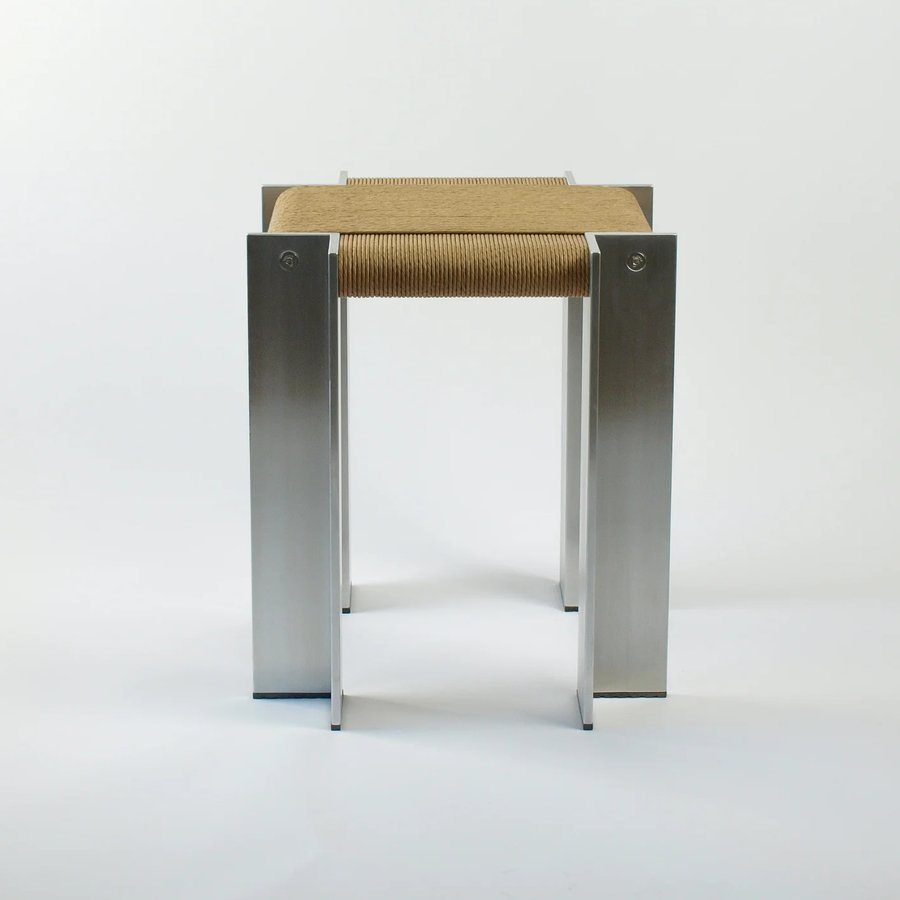
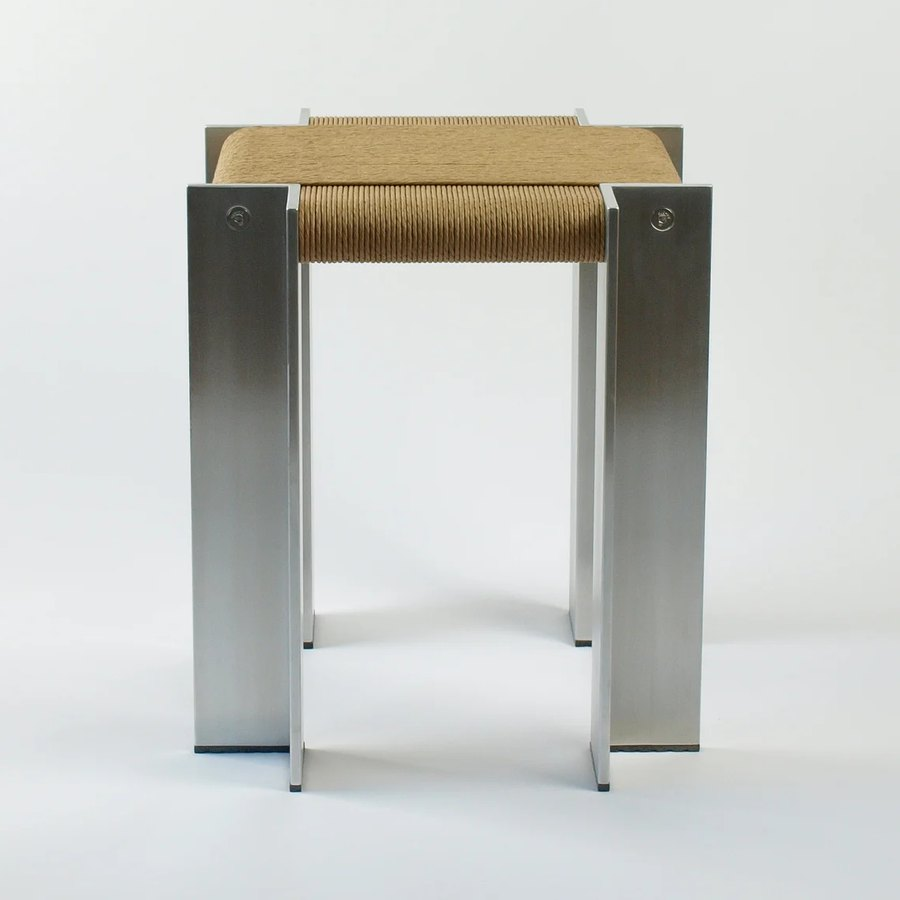
Mobiliario: piezas centradas en su recuadro
- Nueva herramienta herramientas/centrar_mueble.py que detecta la pieza sobre el fondo y la centra con el mismo margen alrededor; modos para lámparas colgantes (centra el cuerpo y no los cables) y para fondos en degradado
- Silla Markelius, Tekio Circular y Horizontal, Sísísí, Falkland, Lotek, Fragile, Dr. Sonderbar, Quadra, L4 Stool y Section Coffee Table, centradas

Claude-Session: https://claude.ai/code/session_01Xops2A717m5QMFGxGir6Zh

Changed region(s): [[0.1867, 0.1244, 0.8089, 0.9022]]

diff --git a/herramientas/centrar_mueble.py b/herramientas/centrar_mueble.py
@@ -1,0 +1,78 @@
+"""
+Centra una pieza de mobiliario dentro de su recuadro.
+
+Detecta el mueble separándolo del fondo liso (el color de las esquinas),
+lo coloca en el centro de un lienzo cuadrado y deja el mismo margen
+alrededor. El fondo se amplía con su propio color, así que no se nota.
+
+Uso:
+  python3 herramientas/centrar_mueble.py ENTRADA SALIDA [margen] [--colgante]
+    margen: espacio libre alrededor del mueble, en tanto por uno (0.12 = 12 %)
+    --colgante: para lámparas de suspensión. Centra el cuerpo de la lámpara
+                sin contar los cables, que siguen subiendo hasta el borde.
+    --degradado: para fotos de estudio con fondo en degradado (no blanco liso).
+                Compara cada píxel con el fondo de su propia fila y, si hace
+                falta ampliar, continúa el degradado de los bordes.
+"""
+
+import sys
+
+import numpy as np
+from PIL import Image
+
+LADO = 900          # tamaño final, en píxeles (cuadrado)
+UMBRAL = 28         # diferencia de color a partir de la cual algo "no es fondo"
+UMBRAL_DEGRADADO = 90   # más alto con fondos en degradado o con viñeta
+
+
+def color_fondo(a):
+    esquinas = np.concatenate([a[:12, :12], a[:12, -12:], a[-12:, :12], a[-12:, -12:]]).reshape(-1, 3)
+    return np.median(esquinas, axis=0)
+
+
+def caja_mueble(a, fondo, colgante=False, degradado=False):
+    if degradado:
+        # el fondo de cada fila es el color de sus extremos (cambia de arriba abajo)
+        bordes = np.concatenate([a[:, :20], a[:, -20:]], axis=1).astype(int)
+        fondo = np.median(bordes, axis=1)[:, None, :]
+    diferencia = np.abs(a.astype(int) - fondo).sum(axis=2) > (UMBRAL_DEGRADADO if degradado else UMBRAL)
+    # se ignoran motas sueltas: una fila o columna cuenta si tiene varios píxeles.
+    # En las colgantes, las filas con solo los cables (muy finos) tampoco cuentan.
+    minimo = a.shape[1] * 0.03 if colgante else 3
+    filas = np.where(diferencia.sum(axis=1) > minimo)[0]
+    if colgante:
+        diferencia = diferencia[filas.min():filas.max() + 1]
+    cols = np.where(diferencia.sum(axis=0) > 3)[0]
+    return cols.min(), filas.min(), cols.max(), filas.max()
+
+
+def centrar(entrada, salida, margen=0.12, colgante=False, degradado=False):
+    im = Image.open(entrada).convert("RGB")
+    a = np.asarray(im)
+    fondo = color_fondo(a)
+    x0, y0, x1, y1 = caja_mueble(a, fondo, colgante, degradado)
+    w, h = x1 - x0 + 1, y1 - y0 + 1
+    lado = int(max(w, h) / (1 - 2 * margen))
+
+    # Se recorta un cuadrado centrado en el mueble a partir de la foto original
+    # (así los cables o las patas que sobresalen se conservan). Lo que queda
+    # fuera de la foto se rellena con el color del fondo.
+    cx, cy = (x0 + x1) / 2, (y0 + y1) / 2
+    izq, arr = int(round(cx - lado / 2)), int(round(cy - lado / 2))
+    if degradado:
+        # se amplía repitiendo los píxeles del borde: el degradado continúa
+        relleno = ((max(0, -arr), max(0, arr + lado - a.shape[0])), (max(0, -izq), max(0, izq + lado - a.shape[1])), (0, 0))
+        ampliada = np.pad(a, relleno, mode="edge")
+        y = arr + relleno[0][0]
+        x = izq + relleno[1][0]
+        lienzo = Image.fromarray(ampliada[y:y + lado, x:x + lado])
+    else:
+        lienzo = Image.new("RGB", (lado, lado), tuple(int(v) for v in fondo))
+        lienzo.paste(im, (-izq, -arr))
+    lienzo.resize((LADO, LADO), Image.LANCZOS).save(salida, quality=86, optimize=True, progressive=True)
+    print(f"{entrada}: mueble {w}x{h}px centrado en {LADO}x{LADO} (margen {int(margen * 100)} %)")
+
+
+if __name__ == "__main__":
+    args = [x for x in sys.argv[1:] if not x.startswith("--")]
+    centrar(args[0], args[1], float(args[2]) if len(args) > 2 else 0.12, "--colgante" in sys.argv, "--degradado" in sys.argv)
